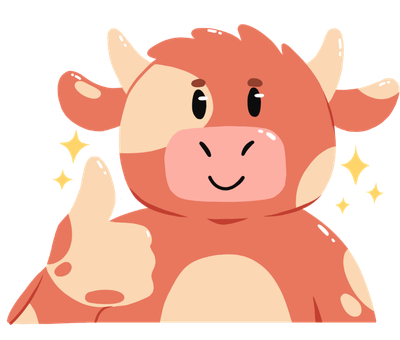
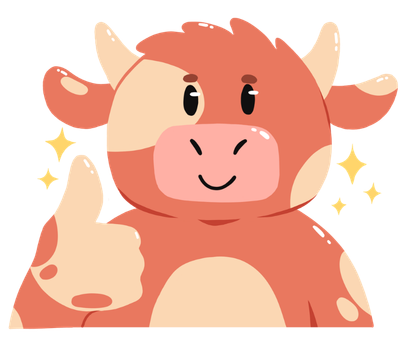
:sparkles: Add last cow image

diff --git a/flutter_app/lib/pages/app_pages/home.dart b/flutter_app/lib/pages/app_pages/home.dart
@@ -68,6 +68,10 @@ class MyHomePageState extends State<MyHomePage>
     NotificationService.showAnniversary.addListener(_onAnniversaryNotificationTap);
     WidgetsBinding.instance
         .addPostFrameCallback((_) => _onAnniversaryNotificationTap());
+
+    // Listen for a pushed page (e.g. scan/sent history empty state) asking
+    // to jump to the Scan tab.
+    NotificationService.navigateToScan.addListener(_onNavigateToScan);
   }
 
   @override
@@ -132,6 +136,15 @@ class MyHomePageState extends State<MyHomePage>
     );
   }
 
+  void _onNavigateToScan() {
+    if (NotificationService.navigateToScan.value && mounted) {
+      NotificationService.navigateToScan.value = false;
+      setState(() {
+        _tabController.index = _scanTabIndex;
+      });
+    }
+  }
+
   void _onTabIndexChanged() {
     if (mounted) {
       setState(() {});
@@ -158,6 +171,7 @@ class MyHomePageState extends State<MyHomePage>
     NotificationService.navigateToProfile.removeListener(_onB12NotificationTap);
     NotificationService.showAnniversary
         .removeListener(_onAnniversaryNotificationTap);
+    NotificationService.navigateToScan.removeListener(_onNavigateToScan);
     WidgetsBinding.instance.removeObserver(this);
     _tabController.removeListener(_onTabIndexChanged);
     _tabController.dispose();

diff --git a/flutter_app/lib/pages/app_pages/Scan/scan_history_page.dart b/flutter_app/lib/pages/app_pages/Scan/scan_history_page.dart
@@ -9,6 +9,7 @@ import 'package:vegan_app/models/product_scores.dart';
 import 'package:vegan_app/models/scan_result.dart';
 import 'package:vegan_app/pages/app_pages/Profile/subscription_page.dart';
 import 'package:vegan_app/pages/app_pages/Scan/product_info_helper.dart';
+import 'package:vegan_app/services/notification_service.dart';
 import 'package:vegan_app/services/subscription_service.dart';
 import 'package:vegan_app/themes/app_colors.dart';
 import 'package:vegan_app/themes/app_shapes.dart';
@@ -240,7 +241,10 @@ class _ScanHistoryPageState extends State<ScanHistoryPage> {
             SizedBox(
               width: double.infinity,
               child: ElevatedButton(
-                onPressed: () => Navigator.of(context).pop(),
+                onPressed: () {
+                  Navigator.of(context).popUntil((route) => route.isFirst);
+                  NotificationService.navigateToScan.value = true;
+                },
                 style: ElevatedButton.styleFrom(
                   backgroundColor: kAccentYellow,
                   foregroundColor: Colors.white,

diff --git a/flutter_app/lib/pages/app_pages/Scan/sent_products_page.dart b/flutter_app/lib/pages/app_pages/Scan/sent_products_page.dart
@@ -3,6 +3,7 @@ import 'package:flutter_screenutil/flutter_screenutil.dart';
 import 'package:vegan_app/helpers/preference_helper.dart';
 import 'package:vegan_app/models/scan_result.dart';
 import 'package:vegan_app/pages/app_pages/Scan/product_info_helper.dart';
+import 'package:vegan_app/services/notification_service.dart';
 import 'package:vegan_app/themes/app_colors.dart';
 import 'package:vegan_app/themes/app_shapes.dart';
 import 'package:vegan_app/themes/app_text_styles.dart';
@@ -164,7 +165,10 @@ class _SentProductsPageState extends State<SentProductsPage> {
             SizedBox(
               width: double.infinity,
               child: ElevatedButton(
-                onPressed: () => Navigator.of(context).pop(),
+                onPressed: () {
+                  Navigator.of(context).popUntil((route) => route.isFirst);
+                  NotificationService.navigateToScan.value = true;
+                },
                 style: ElevatedButton.styleFrom(
                   backgroundColor: kAccentYellow,
                   foregroundColor: Colors.white,

diff --git a/flutter_app/lib/services/notification_service.dart b/flutter_app/lib/services/notification_service.dart
@@ -24,6 +24,12 @@ class NotificationService {
   static final ValueNotifier<bool> showAnniversary =
       ValueNotifier<bool>(false);
 
+  /// Notifier for jumping to the Scan tab from a page that may be pushed
+  /// several routes deep (e.g. the scan/sent-products history empty
+  /// states, reached via Settings). Listeners (the home page) should pop
+  /// back to the root route and select the Scan tab.
+  static final ValueNotifier<bool> navigateToScan = ValueNotifier<bool>(false);
+
   /// Initialize the notification service
   Future<void> initialize() async {
     if (_isInitialized) return;

diff --git a/flutter_app/lib/widgets/scaner/unknown_product_modal.dart b/flutter_app/lib/widgets/scaner/unknown_product_modal.dart
@@ -292,8 +292,7 @@ class _UnknownProductModalState extends State<UnknownProductModal> {
                       ),
                       _buildStatusCard(
                         status: VeganStatus.nonVegan,
-                        //imagePath: 'lib/assets/images/characters/lemon-not.webp',
-                        imagePath: 'lib/assets/images/characters/cow-ok.webp',
+                        imagePath: 'lib/assets/images/characters/cow-not.webp',
                         label: 'Non-végane',
                       ),
                       _buildStatusCard(

diff --git a/flutter_app/lib/helpers/preference_helper.dart b/flutter_app/lib/helpers/preference_helper.dart
@@ -20,6 +20,7 @@ const List<String> kAvailableAvatars = [
   'vache.png',
   'chat.png',
   'chien.png',
+  'cow-2.png'
 ];
 
 class PreferencesHelper {
